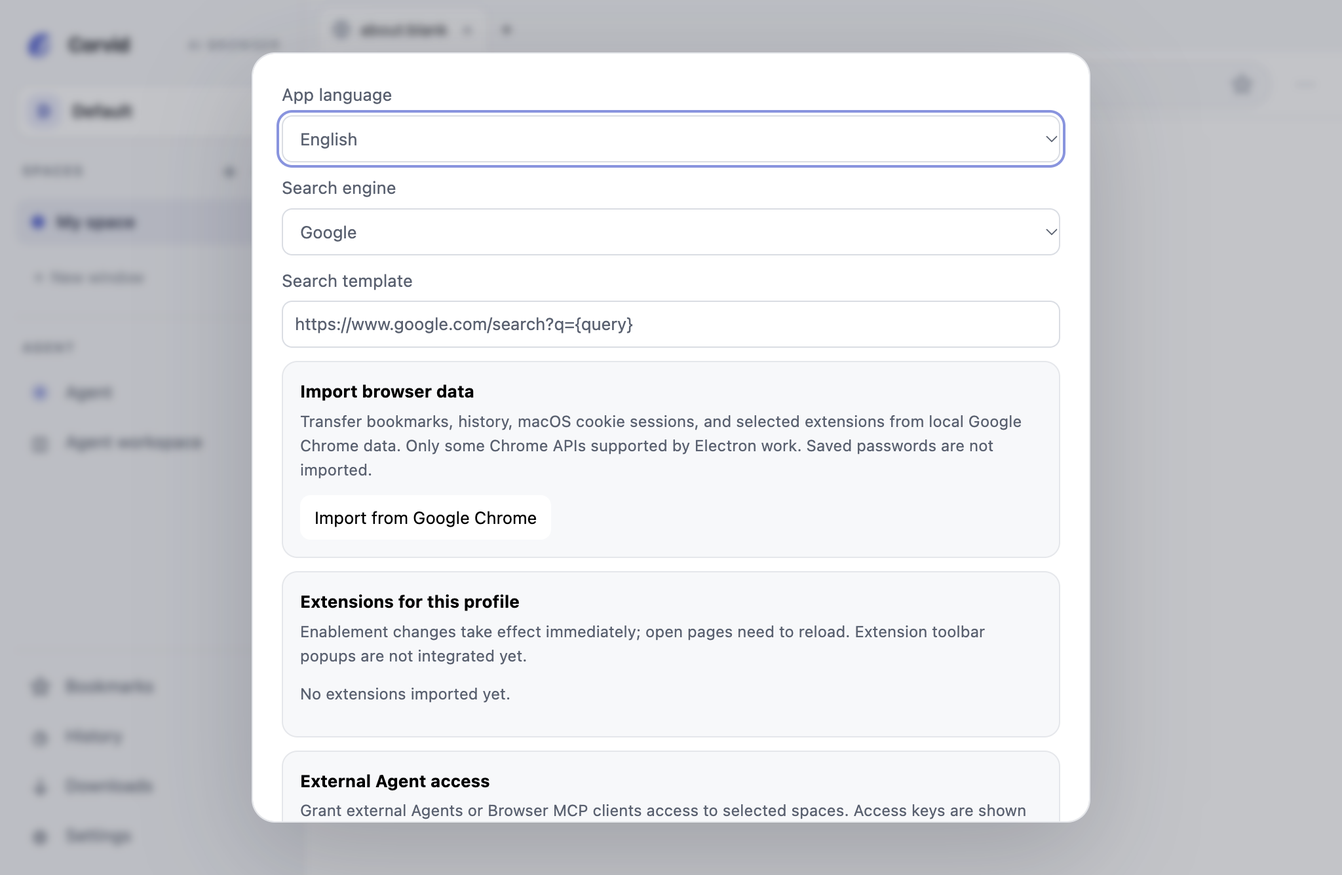
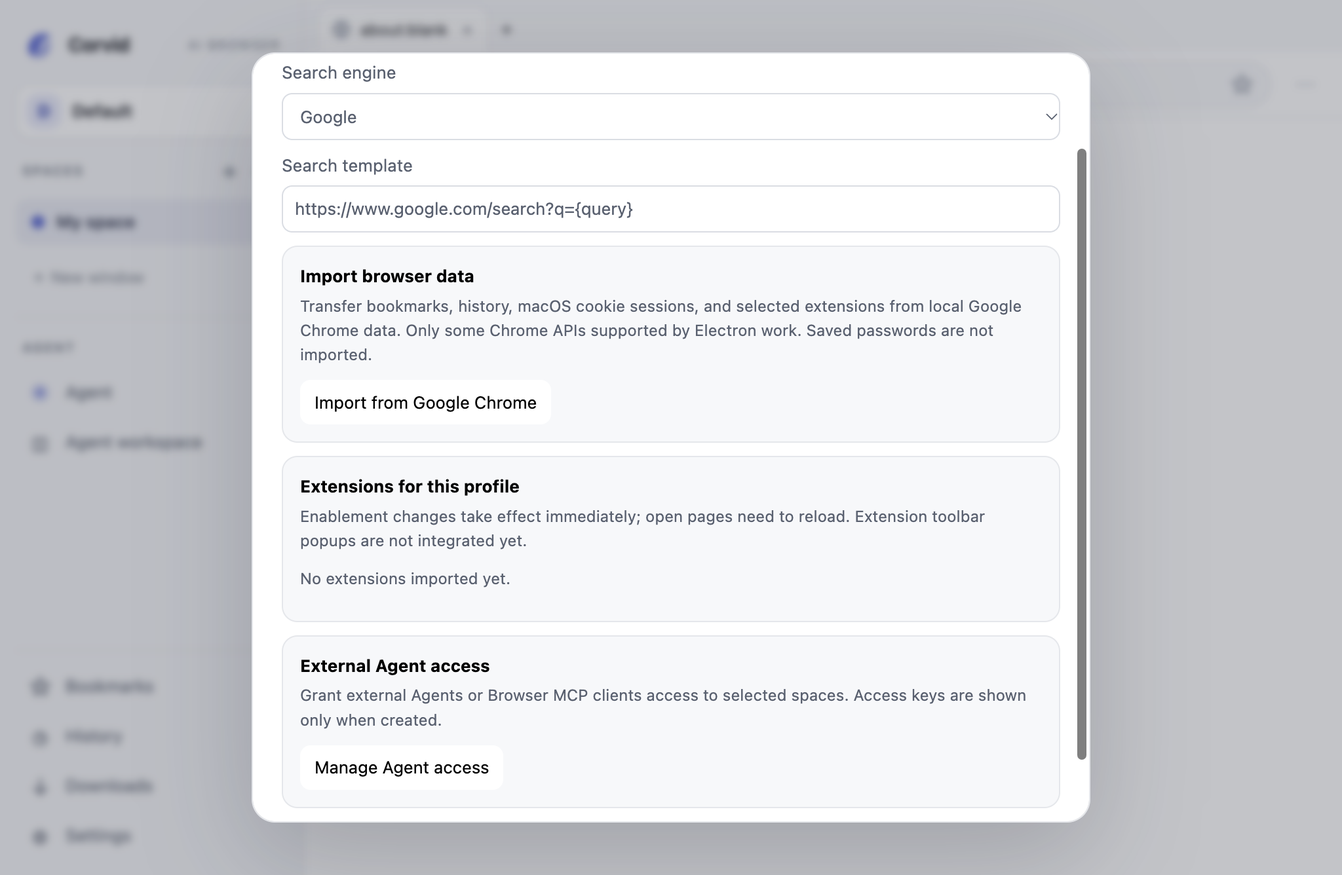
完善中英文窄窗设置验收

Changed region(s): [[0.1875, 0.0614, 0.8125, 0.8593], [0.2188, 0.8593, 0.75, 0.9513], [0.6562, 0.7672, 0.75, 0.7979]]

diff --git a/desktop/index.html b/desktop/index.html
@@ -13,7 +13,7 @@
         <svg viewBox="0 0 32 32" fill="none"><path d="M6 20.5C6 12.5 12.2 6 20 6c2.1 0 4 .5 5.8 1.5-5.6 1-9.2 5.4-10.5 10.2-1 3.7-3.8 6.3-7.2 7.8A10 10 0 0 1 6 20.5Z" fill="currentColor"/><path d="M9 25.5c6.8-1.7 12.2-6.8 15.4-14.1.9 1.8 1.4 3.8 1.4 5.9 0 6.1-4.9 11-11 11-2.1 0-4.1-.6-5.8-1.7Z" fill="currentColor" opacity=".55"/></svg>
       </span>
       <span class="brand-name">Corvid</span>
-      <span class="brand-caption">AI browser</span>
+      <span class="brand-caption" data-i18n="aiBrowser">AI 浏览器</span>
     </div>
 
     <section class="profile-switcher" aria-label="浏览身份切换" data-i18n-aria-label="profileSwitcher">
@@ -83,7 +83,7 @@
 
   <section id="library" hidden aria-label="工作区面板" data-i18n-aria-label="libraryPanel">
     <header class="panel-header">
-      <div><span class="panel-eyebrow">CORVID WORKSPACE</span><h2 id="library-title"></h2></div>
+      <div><span class="panel-eyebrow" data-i18n="corvidWorkspaceEyebrow">CORVID 工作区</span><h2 id="library-title"></h2></div>
       <input id="library-search" type="search" aria-label="搜索列表" placeholder="搜索标题、网址或文件名" data-i18n-aria-label="listSearch" data-i18n-placeholder="listSearchPlaceholder">
       <button id="close-library" class="close-button" aria-label="关闭面板" title="关闭面板" data-i18n-aria-label="closePanel" data-i18n-title="closePanel">×</button>
     </header>
@@ -94,12 +94,12 @@
   <dialog id="new-profile"><form id="new-profile-form"><label><span data-i18n="profileName">浏览身份名称</span> <input id="profile-name" required></label><button type="submit" data-i18n="newProfile">创建浏览身份</button><button type="button" id="cancel-profile" data-i18n="cancel">取消</button></form></dialog>
   <dialog id="rename-profile"><form id="rename-profile-form"><label><span data-i18n="newProfileName">新浏览身份名称</span> <input id="renamed-profile-name" required></label><span id="rename-profile-error" role="alert"></span><button type="submit" data-i18n="saveName">保存名称</button><button type="button" id="cancel-rename-profile" data-i18n="cancel">取消</button></form></dialog>
   <dialog id="settings" aria-label="设置" data-i18n-aria-label="settings"><form id="settings-form"><label><span data-i18n="appLanguageLabel">应用语言</span> <select id="ui-locale" aria-label="应用语言" data-i18n-aria-label="appLanguageLabel"><option value="zh-CN">简体中文</option><option value="en">English</option></select></label><label><span data-i18n="searchEngine">搜索引擎</span> <select id="search-preset"><option value="https://www.google.com/search?q={query}">Google</option><option value="https://www.bing.com/search?q={query}">Bing</option><option value="https://duckduckgo.com/?q={query}">DuckDuckGo</option><option value="custom" data-i18n="customSearch">自定义</option></select></label><label><span data-i18n="searchTemplate">搜索模板</span> <input id="search-template" required></label><section class="settings-import"><h2 data-i18n="chromeImportSettingsTitle">导入浏览器资料</h2><p data-i18n="chromeImportSettingsDescription">从本机 Google Chrome 迁移书签、历史记录、macOS Cookie 登录状态和你选择的扩展。扩展只支持 Electron 可运行的部分 Chrome API；已保存密码不会导入。</p><button type="button" id="start-chrome-import" data-i18n="importFromChrome">从 Google Chrome 导入</button></section><section class="settings-import"><h2 data-i18n="profileExtensionsTitle">当前浏览身份的扩展</h2><p data-i18n="profileExtensionsDescription">启停状态会即时更新；已打开的页面需要重新加载。扩展工具栏弹窗暂未集成。</p><div id="profile-extension-list" class="profile-extension-list" role="group" aria-label="当前浏览身份的扩展" data-i18n-aria-label="extensionPermissions"></div></section><section class="settings-import"><h2 data-i18n="externalAgentAccess">外部 Agent 访问</h2><p data-i18n="externalAgentAccessDescription">为外部 Agent 或 Browser MCP 客户端单独授权空间。访问密钥仅在创建时显示。</p><button type="button" id="open-agent-access" data-i18n="manageAgentAccess">管理 Agent 访问</button></section><span id="settings-error" role="alert"></span><button type="submit" data-i18n="save">保存设置</button><button type="button" id="cancel-settings" data-i18n="cancel">取消</button></form></dialog>
-  <dialog id="agent-access-dialog" aria-labelledby="agent-access-title"><div class="agent-access-dialog"><header class="import-heading"><div><span class="panel-eyebrow">CORVID AGENT ACCESS</span><h2 id="agent-access-title" data-i18n="agentAccessTitle">外部 Agent 访问</h2></div><button type="button" id="close-agent-access" aria-label="关闭授权管理" data-i18n-aria-label="closeAccessManagement">×</button></header><p class="agent-access-intro" data-i18n="agentAccessIntro">为每个外部客户端单独授权一个或多个空间。密钥只能读取已授权空间；撤销后立即失效。</p><p class="agent-access-boundary" data-i18n="agentAccessBoundary">不要把密钥提交到代码仓库或共享给不受信任的主机。本机同一用户进程仍处于 Corvid 管理员信任范围内。</p><form id="agent-client-form"><label><span data-i18n="clientName">客户端名称</span> <input id="agent-client-name" required maxlength="80" placeholder="例如：Browser MCP" data-i18n-placeholder="clientNamePlaceholder"></label><fieldset id="agent-room-scope"><legend data-i18n="allowedSpaces">允许访问的空间</legend><div id="agent-room-options" class="agent-room-options"></div></fieldset><span id="agent-access-error" role="alert"></span><button type="submit" id="create-agent-client" data-i18n="createAccessToken">创建访问密钥</button></form><section id="agent-client-token-panel" class="agent-client-token-panel" hidden aria-labelledby="agent-client-token-title"><h3 id="agent-client-token-title" data-i18n="accessTokenCreated">访问密钥已创建</h3><p data-i18n="accessTokenOneTime">只显示这一次。请立即复制到该客户端的安全配置中；MCP 主机使用环境变量 CORVID_AGENT_TOKEN。</p><textarea id="agent-client-token" readonly rows="3" aria-label="一次性 Agent 访问密钥" data-i18n-aria-label="oneTimeAgentToken"></textarea><div class="agent-client-token-actions"><button type="button" id="copy-agent-client-token" data-i18n="copyAccessToken">复制访问密钥</button><span id="agent-client-copy-status" role="status"></span></div></section><section class="agent-client-list-section" aria-labelledby="agent-client-list-title"><h3 id="agent-client-list-title" data-i18n="authorizedClients">已授权客户端</h3><div id="agent-client-list" role="group" aria-label="已授权客户端" data-i18n-aria-label="authorizedClients" aria-live="polite"></div></section></div></dialog>
-  <dialog id="pi-model-settings" aria-labelledby="pi-model-settings-title"><form id="pi-model-endpoint-form"><header class="import-heading"><div><span class="panel-eyebrow">CORVID MODEL CATALOG</span><h2 id="pi-model-settings-title" data-i18n="modelCatalog">管理 Corvid Agent 模型</h2></div><button type="button" id="close-pi-model-settings" aria-label="关闭模型设置" data-i18n-aria-label="close">×</button></header><p data-i18n="addCompatibleEndpoint">添加 OpenAI Chat Completions 兼容端点。配置只保存在 Corvid 数据目录，API Key 不会显示在模型列表中。留空时会发送无敏感占位 Bearer，端点需忽略此认证头。</p><div id="pi-custom-endpoints" class="pi-custom-endpoints" role="group" aria-label="自定义模型端点" data-i18n-aria-label="customModelEndpoints"></div><h3 id="pi-endpoint-form-title" data-i18n="addCustomEndpoint">添加自定义端点</h3><input id="pi-endpoint-id" type="hidden"><label><span data-i18n="name">名称</span> <input id="pi-endpoint-name" required maxlength="80" placeholder="例如：本地模型" data-i18n-placeholder="localModelPlaceholder"></label><label>Base URL <input id="pi-endpoint-url" type="url" required placeholder="http://127.0.0.1:11434/v1"></label><label><span data-i18n="optionalApiKey">API Key（可选）</span> <input id="pi-endpoint-key" type="password" autocomplete="new-password" spellcheck="false" placeholder="留空可保留现有 Key" data-i18n-placeholder="keepExistingKey"></label><label><span data-i18n="modelIds">模型 ID</span> <textarea id="pi-endpoint-model-ids" required rows="3" placeholder="每行或逗号分隔一个模型 ID" data-i18n-placeholder="modelIdsPlaceholder"></textarea></label><label class="pi-endpoint-clear-key"><input id="pi-endpoint-clear-key" type="checkbox"> <span data-i18n="clearSavedApiKey">清除已保存的 API Key（端点无需认证时使用）</span></label><div id="pi-endpoint-discovered" class="pi-endpoint-discovered" role="status"></div><span id="pi-endpoint-error" role="alert"></span><div class="pi-endpoint-actions"><button type="button" id="discover-pi-endpoint-models" data-i18n="discoverModels">从端点读取模型列表</button><button type="submit" id="save-pi-endpoint" data-i18n="saveEndpoint">保存端点</button><button type="button" id="reset-pi-endpoint-form" data-i18n="clearForm">清空表单</button></div></form></dialog>
+  <dialog id="agent-access-dialog" aria-labelledby="agent-access-title"><div class="agent-access-dialog"><header class="import-heading"><div><span class="panel-eyebrow" data-i18n="corvidAgentAccessEyebrow">CORVID AGENT 授权</span><h2 id="agent-access-title" data-i18n="agentAccessTitle">外部 Agent 访问</h2></div><button type="button" id="close-agent-access" aria-label="关闭授权管理" data-i18n-aria-label="closeAccessManagement">×</button></header><p class="agent-access-intro" data-i18n="agentAccessIntro">为每个外部客户端单独授权一个或多个空间。密钥只能读取已授权空间；撤销后立即失效。</p><p class="agent-access-boundary" data-i18n="agentAccessBoundary">不要把密钥提交到代码仓库或共享给不受信任的主机。本机同一用户进程仍处于 Corvid 管理员信任范围内。</p><form id="agent-client-form"><label><span data-i18n="clientName">客户端名称</span> <input id="agent-client-name" required maxlength="80" placeholder="例如：Browser MCP" data-i18n-placeholder="clientNamePlaceholder"></label><fieldset id="agent-room-scope"><legend data-i18n="allowedSpaces">允许访问的空间</legend><div id="agent-room-options" class="agent-room-options"></div></fieldset><span id="agent-access-error" role="alert"></span><button type="submit" id="create-agent-client" data-i18n="createAccessToken">创建访问密钥</button></form><section id="agent-client-token-panel" class="agent-client-token-panel" hidden aria-labelledby="agent-client-token-title"><h3 id="agent-client-token-title" data-i18n="accessTokenCreated">访问密钥已创建</h3><p data-i18n="accessTokenOneTime">只显示这一次。请立即复制到该客户端的安全配置中；MCP 主机使用环境变量 CORVID_AGENT_TOKEN。</p><textarea id="agent-client-token" readonly rows="3" aria-label="一次性 Agent 访问密钥" data-i18n-aria-label="oneTimeAgentToken"></textarea><div class="agent-client-token-actions"><button type="button" id="copy-agent-client-token" data-i18n="copyAccessToken">复制访问密钥</button><span id="agent-client-copy-status" role="status"></span></div></section><section class="agent-client-list-section" aria-labelledby="agent-client-list-title"><h3 id="agent-client-list-title" data-i18n="authorizedClients">已授权客户端</h3><div id="agent-client-list" role="group" aria-label="已授权客户端" data-i18n-aria-label="authorizedClients" aria-live="polite"></div></section></div></dialog>
+  <dialog id="pi-model-settings" aria-labelledby="pi-model-settings-title"><form id="pi-model-endpoint-form"><header class="import-heading"><div><span class="panel-eyebrow" data-i18n="corvidModelCatalogEyebrow">CORVID 模型目录</span><h2 id="pi-model-settings-title" data-i18n="modelCatalog">管理 Corvid Agent 模型</h2></div><button type="button" id="close-pi-model-settings" aria-label="关闭模型设置" data-i18n-aria-label="close">×</button></header><p data-i18n="addCompatibleEndpoint">添加 OpenAI Chat Completions 兼容端点。配置只保存在 Corvid 数据目录，API Key 不会显示在模型列表中。留空时会发送无敏感占位 Bearer，端点需忽略此认证头。</p><div id="pi-custom-endpoints" class="pi-custom-endpoints" role="group" aria-label="自定义模型端点" data-i18n-aria-label="customModelEndpoints"></div><h3 id="pi-endpoint-form-title" data-i18n="addCustomEndpoint">添加自定义端点</h3><input id="pi-endpoint-id" type="hidden"><label><span data-i18n="name">名称</span> <input id="pi-endpoint-name" required maxlength="80" placeholder="例如：本地模型" data-i18n-placeholder="localModelPlaceholder"></label><label><span data-i18n="baseUrl">API 基础地址</span> <input id="pi-endpoint-url" type="url" required placeholder="http://127.0.0.1:11434/v1"></label><label><span data-i18n="optionalApiKey">API Key（可选）</span> <input id="pi-endpoint-key" type="password" autocomplete="new-password" spellcheck="false" placeholder="留空可保留现有 Key" data-i18n-placeholder="keepExistingKey"></label><label><span data-i18n="modelIds">模型 ID</span> <textarea id="pi-endpoint-model-ids" required rows="3" placeholder="每行或逗号分隔一个模型 ID" data-i18n-placeholder="modelIdsPlaceholder"></textarea></label><label class="pi-endpoint-clear-key"><input id="pi-endpoint-clear-key" type="checkbox"> <span data-i18n="clearSavedApiKey">清除已保存的 API Key（端点无需认证时使用）</span></label><div id="pi-endpoint-discovered" class="pi-endpoint-discovered" role="status"></div><span id="pi-endpoint-error" role="alert"></span><div class="pi-endpoint-actions"><button type="button" id="discover-pi-endpoint-models" data-i18n="discoverModels">从端点读取模型列表</button><button type="submit" id="save-pi-endpoint" data-i18n="saveEndpoint">保存端点</button><button type="button" id="reset-pi-endpoint-form" data-i18n="clearForm">清空表单</button></div></form></dialog>
   <dialog id="chrome-import"><form id="chrome-import-form"><header class="import-heading"><div><span class="panel-eyebrow" data-i18n="browserData">BROWSER DATA</span><h2 data-i18n="chromeImportTitle">从 Google Chrome 导入</h2></div><button type="button" id="cancel-chrome-import" aria-label="关闭导入" data-i18n-aria-label="closeImport">×</button></header><p class="import-intro" data-i18n="chromeImportIntro">建议先退出 Chrome，确保资料完整。这里只读取你选择的本机资料，不改动源文件，也不会上传。</p><label class="import-target"><span data-i18n="importTargetProfile">导入到 Corvid 浏览身份</span> <select id="chrome-import-target-profile" aria-label="导入目标浏览身份" data-i18n-aria-label="importTargetProfile"></select></label><button type="button" id="choose-chrome-source" data-i18n="chooseChromeDirectory">选择 Chrome 资料目录…</button><label><span data-i18n="chromeProfile">Chrome Profile</span> <select id="chrome-source-profile" disabled><option value="" data-i18n="chooseDirectoryFirst">先选择资料目录</option></select></label><div id="chrome-import-preview" class="import-preview" role="status" data-i18n="chooseDirectoryForCounts">选择目录后会显示可导入项目数量。</div><fieldset id="chrome-import-categories" disabled><legend data-i18n="chooseDataToImport">选择要导入的资料</legend><label><input type="checkbox" name="chrome-category" value="bookmarks" checked> <span data-i18n="bookmarks">书签</span> <span id="chrome-bookmark-count">0 项</span></label><label><input type="checkbox" name="chrome-category" value="history" checked> <span data-i18n="history">浏览历史</span> <span id="chrome-history-count">0 项</span></label><label><input type="checkbox" name="chrome-category" value="cookies"> <span data-i18n="cookiesLogin">Cookie（登录状态）</span> <span id="chrome-cookie-count">0 项</span></label><label><input type="checkbox" name="chrome-category" value="extensions"> <span data-i18n="chromeExtensions">Chrome 扩展</span> <span id="chrome-extension-count">0 项</span></label></fieldset><section id="chrome-cookie-consent" class="chrome-cookie-consent" hidden aria-labelledby="chrome-cookie-consent-title"><h3 id="chrome-cookie-consent-title" data-i18n="importCookieKeychainTitle">导入 Cookie 会读取 macOS 钥匙串</h3><p data-i18n="importCookieKeychainDescription">确认导入后，Corvid 会请求访问“Chrome Safe Storage”以解密所选 Chrome Profile 的 Cookie。macOS 可能显示钥匙串授权提示；拒绝授权或取消导入都不会写入 Cookie。Cookie 只保存到上方指定的浏览身份，不会上传。</p><label><input type="checkbox" id="chrome-cookie-consent-check"> <span data-i18n="cookieImportConsent">我了解此操作会读取 Chrome 登录 Cookie，并同意导入到此 Corvid 浏览身份。</span></label></section><div id="chrome-extension-choices" class="chrome-extension-choices" aria-label="选择 Chrome 扩展" data-i18n-aria-label="chooseChromeExtensions"></div><p class="import-limitation" data-i18n="chromeImportLimitations">扩展代码会在目标 Corvid 浏览身份中运行。请核对每个扩展的权限；Electron 只支持部分 Chrome 扩展 API，扩展工具栏弹窗暂未集成；导入后可能无法使用，已打开的页面需要重新加载。扩展设置与已保存密码不会迁移。Cookie 导入仅支持 macOS；会话 Cookie 会在 Corvid 退出时按源语义失效，带有效期的 Cookie 可跨重启保留。</p><span id="chrome-import-error" role="status"></span><button type="submit" id="confirm-chrome-import" disabled data-i18n="importSelectedData">导入所选资料</button></form></dialog>
   <dialog id="chrome-import-onboarding" aria-labelledby="chrome-import-onboarding-title" aria-describedby="chrome-import-onboarding-description"><form id="chrome-import-onboarding-form"><span class="panel-eyebrow" data-i18n="welcomeToCorvid">WELCOME TO CORVID</span><h2 id="chrome-import-onboarding-title" data-i18n="onboardingTitle">从 Chrome 开始使用 Corvid？</h2><p id="chrome-import-onboarding-description" data-i18n="onboardingDescription">你可以选择迁移书签、历史记录、Cookie 登录状态和兼容的扩展。开始前会让你选择 Chrome 资料与导入内容。</p><p class="import-limitation" data-i18n="onboardingLimitations">扩展只支持 Electron 可运行的部分 Chrome API；已保存密码不会导入。你也可以稍后在设置中再导入。</p><span id="chrome-import-onboarding-error" role="alert"></span><div class="onboarding-actions"><button type="button" id="skip-chrome-import" data-i18n="later">稍后</button><button type="button" id="begin-chrome-import" data-i18n="chooseImportData">选择要导入的资料</button></div></form></dialog>
   <dialog id="page-dialog"><form id="page-dialog-form"><span id="page-dialog-message"></span><label id="page-dialog-prompt-label"><span data-i18n="reply">回复</span> <input id="page-dialog-prompt"></label><button type="submit" data-i18n="confirm">确定</button><button type="button" id="page-dialog-dismiss" data-i18n="cancel">取消</button></form></dialog>
-  <dialog id="pi-auth-dialog" aria-labelledby="pi-auth-title"><form id="pi-auth-form"><span class="panel-eyebrow">MODEL SIGN IN</span><h2 id="pi-auth-title" data-i18n="modelSignIn">完成模型账号授权</h2><p id="pi-auth-message"></p><a id="pi-auth-open-url" hidden data-i18n="openChatgptAuth">打开 ChatGPT 授权页</a><label id="pi-auth-input-label"><span data-i18n="authorizationInfo">授权信息</span> <input id="pi-auth-input" autocomplete="off"></label><button type="submit" data-i18n="continueAuthorization">继续授权</button><button type="button" id="pi-auth-cancel" data-i18n="cancel">取消</button></form></dialog>
+  <dialog id="pi-auth-dialog" aria-labelledby="pi-auth-title"><form id="pi-auth-form"><span class="panel-eyebrow" data-i18n="modelSignInEyebrow">模型账号授权</span><h2 id="pi-auth-title" data-i18n="modelSignIn">完成模型账号授权</h2><p id="pi-auth-message"></p><a id="pi-auth-open-url" hidden data-i18n="openChatgptAuth">打开 ChatGPT 授权页</a><label id="pi-auth-input-label"><span data-i18n="authorizationInfo">授权信息</span> <input id="pi-auth-input" autocomplete="off"></label><button type="submit" data-i18n="continueAuthorization">继续授权</button><button type="button" id="pi-auth-cancel" data-i18n="cancel">取消</button></form></dialog>
   <script src="locales.js"></script>
   <script src="renderer.js"></script>
 </body>

diff --git a/desktop/locales.js b/desktop/locales.js
@@ -4,6 +4,7 @@
       appLanguageLabel: '应用语言',
       localeSaveFailed: '无法保存语言设置，请重试。',
       browserNavigation: 'Corvid 导航',
+      aiBrowser: 'AI 浏览器',
       profileSwitcher: '浏览身份切换',
       profile: '浏览身份',
       profileOptions: '浏览身份选项',
@@ -92,12 +93,16 @@
       saveEndpoint: '保存端点',
       clearForm: '清空表单',
       browserData: '导入浏览器资料',
+      corvidWorkspaceEyebrow: 'CORVID 工作区',
+      corvidAgentAccessEyebrow: 'CORVID AGENT 授权',
+      corvidModelCatalogEyebrow: 'CORVID 模型目录',
       chromeImportTitle: '从 Google Chrome 导入',
       closeImport: '关闭导入',
       chromeImportIntro: '建议先退出 Chrome，确保资料完整。这里只读取你选择的本机资料，不改动源文件，也不会上传。',
       importTargetProfile: '导入到 Corvid 浏览身份',
       chooseChromeDirectory: '选择 Chrome 资料目录…',
-      chromeProfile: 'Chrome Profile',
+      chromeProfile: 'Chrome 浏览身份',
+      baseUrl: 'API 基础地址',
       chooseDirectoryFirst: '先选择资料目录',
       chooseDirectoryForCounts: '选择目录后会显示可导入项目数量。',
       chooseDataToImport: '选择要导入的资料',
@@ -111,7 +116,7 @@
       chooseChromeExtensions: '选择 Chrome 扩展',
       chromeImportLimitations: '扩展代码会在目标 Corvid 浏览身份中运行。请核对每个扩展的权限；Electron 只支持部分 Chrome 扩展 API，扩展工具栏弹窗暂未集成；导入后可能无法使用，已打开的页面需要重新加载。扩展设置与已保存密码不会迁移。Cookie 导入仅支持 macOS；会话 Cookie 会在 Corvid 退出时按源语义失效，带有效期的 Cookie 可跨重启保留。',
       importSelectedData: '导入所选资料',
-      welcomeToCorvid: 'WELCOME TO CORVID',
+      welcomeToCorvid: '欢迎使用 Corvid',
       onboardingTitle: '从 Chrome 开始使用 Corvid？',
       onboardingDescription: '你可以选择迁移书签、历史记录、Cookie 登录状态和兼容的扩展。开始前会让你选择 Chrome 资料与导入内容。',
       onboardingLimitations: '扩展只支持 Electron 可运行的部分 Chrome API；已保存密码不会导入。你也可以稍后在设置中再导入。',
@@ -120,6 +125,7 @@
       reply: '回复',
       confirm: '确定',
       modelSignIn: '完成模型账号授权',
+      modelSignInEyebrow: '模型账号授权',
       openChatgptAuth: '打开 ChatGPT 授权页',
       authorizationInfo: '授权信息',
       continueAuthorization: '继续授权',
@@ -340,6 +346,7 @@
       appLanguageLabel: 'App language',
       localeSaveFailed: 'Could not save the language setting. Try again.',
       browserNavigation: 'Corvid navigation',
+      aiBrowser: 'AI browser',
       profileSwitcher: 'Switch browsing profile',
       profile: 'Browsing profile',
       profileOptions: 'Browsing profile options',
@@ -428,12 +435,16 @@
       saveEndpoint: 'Save endpoint',
       clearForm: 'Clear form',
       browserData: 'BROWSER DATA',
+      corvidWorkspaceEyebrow: 'CORVID WORKSPACE',
+      corvidAgentAccessEyebrow: 'CORVID AGENT ACCESS',
+      corvidModelCatalogEyebrow: 'CORVID MODEL CATALOG',
       chromeImportTitle: 'Import from Google Chrome',
       closeImport: 'Close import',
       chromeImportIntro: 'Quit Chrome first to help ensure the data is complete. Corvid reads only the local data you choose, does not modify the source, and does not upload it.',
       importTargetProfile: 'Import into Corvid profile',
       chooseChromeDirectory: 'Choose Chrome data folder…',
       chromeProfile: 'Chrome profile',
+      baseUrl: 'Base URL',
       chooseDirectoryFirst: 'Choose a data folder first',
       chooseDirectoryForCounts: 'Choose a folder to see how many items can be imported.',
       chooseDataToImport: 'Choose data to import',
@@ -456,6 +467,7 @@
       reply: 'Reply',
       confirm: 'OK',
       modelSignIn: 'Complete model account sign-in',
+      modelSignInEyebrow: 'MODEL SIGN IN',
       openChatgptAuth: 'Open ChatGPT sign-in',
       authorizationInfo: 'Authorization details',
       continueAuthorization: 'Continue authorization',

diff --git a/docs/execution/feature-board.md b/docs/execution/feature-board.md
@@ -80,7 +80,7 @@
 | D20 | 部分 | **外部 Agent / Browser MCP 浏览器接入**。stdio MCP 使用 `CORVID_AGENT_TOKEN` scoped credential（未配置时拒绝运行且不回退管理员 token），Profile/Room 列表按授权过滤；授权凭据可在设置内签发和撤销，见 D23。工具操作显式选择 Room/Tab。现有能力包括只读发现、页信息与快照、`page_navigate`（限无凭据 HTTP(S)）、`page_click`、`page_fill`、`page_press`，均要求显式 Room/Tab、Agent 控制、无待接管、无 execution risk 和 managed tab。REA 对 EGO/Kaze 界面及 Kaze 包做了精确取样，证据见[双浏览器参照分析](../research/browser-reference-analysis.md)；工具清单借鉴 BrowserMCP 的 observe/act 思路，但直接复用 Corvid SDK。后台 Room 的操作与截图现已在前台保持起始页时通过真实 Electron 回归；视图仍由活动用户标签置顶。只读基线见 [Issue #4](https://github.com/heyallencao/corvid/issues/4)，起始页合成层及操作合同见 [Issue #98](https://github.com/heyallencao/corvid/issues/98)。 | ① `node tests/mcp-e2e.cjs` 覆盖协议初始化与工具 annotations、scoped token 缺失时拒绝且不回退管理员凭据、授权 Profile/Room 列表、显式 Room/Tab、HTTP(S) 本地导航、角色定位器输入/按键/点击后重新 Snapshot 验证、副作用受限、拒绝 `javascript:`、用户接管时拒绝写操作及只读操作、Corvid 离线错误；后台 Room 在前台空白起始页下执行页信息、Snapshot、fill/click 与 SDK 截图，且前台视图不变。② `npm test` 全量回归。③ 后续再定义主机配置/断开、页面上下文同意、暂停恢复、真实 MCP host、站点 adapter 边界；当前不提供 arbitrary `evaluate`/CDP、文件上传、Tab/Room 生命周期或控制权转移工具。④ 真实网站、macOS 打包入口、Windows 与真实 MCP host UI 尚未验证。 |
 
 | D23 | 部分 | **Agent 身份与 Room 授权**。已实现管理员签发独立 Agent 客户端凭据、SHA-256 摘要持久化（0600）、撤销、设置内查看/复制/撤销界面、服务端逐请求 Room 范围校验、未授权 Profile 不可枚举、历史/书签/下载/窗口端点拒绝、SDK 显式 scoped credential 连接；Browser MCP 需在宿主环境配置 `CORVID_AGENT_TOKEN`，无凭据时拒绝运行且不回退管理员 token。`agent-access-e2e` 覆盖两个客户端并发操作不同获准 Room 且并发跨 Room 读写仍拒绝；当 Agent A 的本地慢响应导航挂起时，Agent B 的获准 Room 导航仍先完成，释放响应后 A 再完成（主进程按 Room 排队，同一 Room 操作仍串行）；`agent-access-ui-e2e` 和 `mcp-e2e` 覆盖外部授权 UI 与 MCP 接入；内置 Agent 现由 Corvid 主进程为每个任务轮次签发只绑定单一 Room 的内存 scoped credential，续聊重新签发，完成、失败、停止和用户接管时撤销，同一任务的续聊请求互斥，页面上下文读取中交接不会迟到启动会话或签发凭据；凭据不写入外部客户端授权文件、任务记录或 transcript。`agent-runtime-contract-e2e.cjs`、`pi-runtime-e2e.cjs` 与 `pi-workbench-e2e.cjs` 覆盖生命周期与会话接入。同一 OS 用户进程间的安全隔离仍不成立：能读取管理员 `control.json` 或控制主进程的进程不受此边界约束。跟踪 [Issue #96](https://github.com/heyallencao/corvid/issues/96)。 | ① `node tests/agent-access-e2e.cjs`：两个 Room/客户端并发读取与创建标签；并发跨 Room 读写及 Tab ID 访问返回 `CORVID_FORBIDDEN`；并发完成后仍只枚举各自授权 Room；全局数据路由返回 `CORVID_FORBIDDEN`，Profile 列表仅含授权空间所属身份；凭据明文不落盘且授权文件权限为 0600；撤销立即生效并跨重启保留；未撤销 scoped token 跨重启可用。② 服务端每个路由先鉴权；新增路由默认拒绝 scoped client，按显式白名单开放。③ `tests/agent-access-ui-e2e.cjs` 覆盖设置内签发/查看/复制/撤销；`tests/mcp-e2e.cjs` 以 scoped token 运行并仅列出获准 Room/Profile。④ 已接入内置 Agent 的任务级 Room scoped credential；验证每轮签发、续聊轮换、完成/失败/停止/接管撤销、初始化期间交接不会晚发 prompt、重启不复用凭据，后台 Room 与新标签层级合同由 Issue #98 跟踪。⑤ 明确管理员 `control.json` 仍属于同一 OS 用户信任域；尚未提供恶意同用户进程的 OS 级隔离，不得宣称已解决。 |
-| D24 | 部分 | **首发简体中文与英文界面及可扩展本地化**。应用级语言偏好按系统语言初始化，并持久化于 `ui-preferences.json`；`shell-state` 将 locale 提供给桌面 renderer，控制 API 不开放 locale 写入口。`desktop/locales.js` 现有 332 个中英文资源键及参数插值、复数、`Intl` 日期/数字/列表格式化。静态 DOM 与动态渲染已迁移浏览器 chrome、标签/菜单、设置、Chrome 导入、Agent 访问授权、扩展状态、内置 Agent 对话/模型管理和 Agent 工作区主要文案；系统生成默认名称仅在显示层翻译，用户数据不改写。真实 Electron 中英文定向 E2E 已覆盖语言切换/重启、资源键及占位符一致、设置/授权/导入/模型/工作区代表性状态与 700×420 导航可达，截图索引见[验证记录](../reviews/verification-log.md#2026-11-03-corvid-界面语言偏好与浏览器壳层首批双语-issue-130)。仍未完成的部分包括主进程/依赖生成的错误、帮助与罕见状态、所有菜单/流程盘点、完整键盘焦点及 VoiceOver；定向 E2E 和截图不等于全产品文案或无障碍验收。设计和源码范围见[界面本地化设计](../architecture/localization.md)。扩展 `_locales` 仅属于扩展兼容。整体由 [Issue #130](https://github.com/heyallencao/corvid/issues/130) 跟踪。 | ① 完成 `zh-CN`/`en` 对浏览器 chrome、Agent 工作区、设置、菜单、帮助、错误/状态/空态及可访问名称的全界面盘点。② 保持 locale 资源与格式化边界，禁止业务逻辑新增硬编码用户文案。③ 验收译文语义、长文本窄窗、键盘焦点、减少动态效果与辅助技术名称。④ 扩展视图若包含 Corvid 提供的界面，也须纳入对应文案盘点；网页主体仍由网站负责。⑤ 只有全部流程和状态通过检查后，才能将 D24 标为已验证。 |
+| D24 | 部分 | **首发简体中文与英文界面及可扩展本地化**。应用级语言偏好按系统语言初始化，并持久化于 `ui-preferences.json`；`shell-state` 将 locale 提供给桌面 renderer，控制 API 不开放 locale 写入口。`desktop/locales.js` 提供双语资源、参数插值、复数、`Intl` 日期/数字/列表格式化。静态 DOM 与动态渲染已迁移浏览器 chrome、标签/菜单、设置、Chrome 导入及引导、Agent 访问授权、扩展状态、内置 Agent 对话/模型管理和 Agent 工作区主要文案，包括品牌眉题、Chrome Profile 与端点地址字段；默认名称只在显示层翻译，用户数据不改写。真实 Electron 中英文定向 E2E 覆盖语言切换/重启、资源键与占位符一致、源码重复键检查、设置/授权/导入/模型/工作区代表性状态、700×420 导航可达及中英文设置对话框滚动后保存动作完整可达，截图索引见[验证记录](../reviews/verification-log.md#2026-11-03-corvid-界面语言偏好与浏览器壳层首批双语-issue-130)。仍未完成的部分包括主进程/依赖生成的错误、帮助与罕见状态、所有菜单/流程盘点、完整键盘焦点及 VoiceOver；定向 E2E 和截图不等于全产品文案或无障碍验收。设计和源码范围见[界面本地化设计](../architecture/localization.md)。扩展 `_locales` 仅属于扩展兼容。整体由 [Issue #130](https://github.com/heyallencao/corvid/issues/130) 跟踪。 | ① 完成 `zh-CN`/`en` 对浏览器 chrome、Agent 工作区、设置、菜单、帮助、错误/状态/空态及可访问名称的全界面盘点。② 保持 locale 资源与格式化边界，禁止业务逻辑新增硬编码用户文案。③ 验收译文语义、长文本窄窗、键盘焦点、减少动态效果与辅助技术名称。④ 扩展视图若包含 Corvid 提供的界面，也须纳入对应文案盘点；网页主体仍由网站负责。⑤ 只有全部流程和状态通过检查后，才能将 D24 标为已验证。 |
 
 ## P2：平台、迁移与能力补齐
 

diff --git a/docs/qa/e2e-suites.md b/docs/qa/e2e-suites.md
@@ -66,8 +66,8 @@
 | 47 | `tests/agent-access-e2e.cjs` | 真实 Electron：两个 Agent 客户端并发列出/读取并在各自获准 Room 创建标签；同时发起跨 Room 读取、Tab 操作和写入，均返回 `CORVID_FORBIDDEN`；并发操作后双方仍只枚举获准 Room；Agent A 的本地慢响应导航保持挂起时，Agent B 的获准 Room 导航先完成，释放响应后 A 再完成；跨 Room 与全局 Profile、历史、下载、窗口访问被拒；SDK 签发、列出、撤销授权并直接使用 scoped credential；凭据仅保存摘要且权限为 0600；撤销即时生效，未撤销授权跨重启有效、已撤销授权跨重启仍失效。 | 使用临时数据目录与本机真实 Electron；只验证控制接口和确定性 Room，不调用真实模型/OAuth；本地 HTTP gate 验证不同 Room 的慢/快导航互不阻塞，同一 Room 内仍由队列串行执行；不代表真实模型调用并发或多进程并行调度；不验证 UI/真实 MCP host 或同一 OS 用户恶意进程隔离。内置 Agent 生命周期由 39、40、42 覆盖。 |
 | 49 | `tests/navigation-error-e2e.cjs` | 真实 Electron 主框架导航失败时显示用户可读错误、保留失败 URL 并提供重试；恢复本地服务后重试成功且清除错误；加载状态可见；新建空白标签立即选中并接收地址栏导航；新导航替代挂起请求后不遗留旧失败状态。 | 临时 Corvid 数据目录与本地 HTTP fixture；只映射少数网络错误到中文说明，证书失败显示通用安全连接提示；不覆盖所有 Chromium 错误码、代理/DNS 环境及原生证书详情页面。 |
 | 52 | `tests/agent-task-continuation-contract.cjs` | 不启动 Electron 的真实 Agent Workbench 模块合同：同一已完成任务并发提交续聊时只接受一个请求，不重复写入 transcript/session/credential；过期页面预览失败后恢复原状态；Room 在页面读取、scoped credential 签发及运行时会话初始化三个等待窗口交还用户时，迟到续聊均被拒绝、任务保持 interrupted、凭据被撤销且未调用模型 prompt。 | 使用确定性 runtime 与临时数据目录，不调用真实 Provider；不覆盖实际 Electron renderer 双击时序，UI 状态和双客户端 Room 授权由其他用例覆盖。 |
-| 53 | `tests/localization-e2e.cjs` | 真实 Electron 双语回归：应用语言切换/无效 locale 拒绝、源码 locale 重复键检查、两份资源键/复数键/插值占位符一致、DOM 资源键存在；检查侧栏和菜单、地址栏/查找、设置内 Chrome 导入与外部 Agent 授权、Profile 扩展空态、Agent 提示/模型管理与 Agent 工作区空态的中英文文案和可访问名称。验证 locale 切换不改写 Room/Profile 名称、`Intl` 日期/数字/复数格式、0600 偏好文件和重启恢复，并在 700×420 窄窗检查导航控件。`CORVID_CAPTURE_QA_SCREENSHOTS=1` 可生成八张隔离空白状态截图，含中英文常规窗口与设置窄窗状态。 | 使用临时 `CORVID_DATA_DIR` 与本机真实 Electron，不访问外网、不使用 OAuth 或模型；检查的是明确覆盖的确定性路径，不等同全部文案盘点。主进程/依赖生成的错误、帮助与罕见状态、全菜单、完整键盘焦点路径和 VoiceOver 未完成审计；窄窗断言不代表完整界面可用性。 |
-| 50 | `tests/pi-real-model-smoke.cjs`（手动运行） | 在隔离 `CORVID_DATA_DIR` 中经 Corvid 发起 ChatGPT OAuth，断言 Corvid 加密凭据文件存在、Agent 任务固定使用 `openai-codex/gpt-6-luna`，并通过 Corvid UI 向本地 HTTP 页面上下文发起真实请求、收到标记响应。 | 会访问真实 OpenAI/Codex 服务并消耗账户用量；不得读取外部 CLI 凭据，不纳入 `npm test`；需在 Corvid OAuth 对话框及浏览器中完成账号授权；当前执行证据限本机 macOS。 |
+| 50 | `tests/localization-e2e.cjs` | 真实 Electron 双语回归：应用语言切换/无效 locale 拒绝、源码 locale 重复键检查、两份资源键/复数键/插值占位符一致、DOM 资源键存在；检查侧栏/菜单、地址栏/查找、品牌眉题、Chrome Profile 名称、设置内 Chrome 导入与外部 Agent 授权、Profile 扩展空态、Agent 提示/模型管理（含端点地址字段）与 Agent 工作区空态的中英文文案和可访问名称。验证 locale 切换不改写 Room/Profile 名称、`Intl` 日期/数字/复数格式、0600 偏好文件和重启恢复，并在 700×420 窄窗检查导航控件，以及中英文设置对话框滚动后保存动作完整可达。`CORVID_CAPTURE_QA_SCREENSHOTS=1` 可生成八张隔离空白状态截图。 | 使用临时 `CORVID_DATA_DIR` 与本机真实 Electron，不访问外网、不使用 OAuth 或模型；检查的是明确覆盖的确定性路径，不等同全部文案盘点。主进程/依赖生成的错误、帮助与罕见状态、全菜单、完整键盘焦点路径和 VoiceOver 未完成审计；窄窗断言不代表完整界面可用性。 |
+| 51 | `tests/pi-real-model-smoke.cjs`（手动运行） | 在隔离 `CORVID_DATA_DIR` 中经 Corvid 发起 ChatGPT OAuth，断言 Corvid 加密凭据文件存在、Agent 任务固定使用 `openai-codex/gpt-6-luna`，并通过 Corvid UI 向本地 HTTP 页面上下文发起真实请求、收到标记响应。 | 会访问真实 OpenAI/Codex 服务并消耗账户用量；不得读取外部 CLI 凭据，不纳入 `npm test`；需在 Corvid OAuth 对话框及浏览器中完成账号授权；当前执行证据限本机 macOS。 |
 
 ## 工作块与测试的映射
 
@@ -87,7 +87,7 @@
 | D19 内置 Agent / Pi runtime | `pi-runtime-e2e`（session 创建、transcript 路径边界与工具 allowlist；无真实模型）、`pi-models-e2e`（模型目录、选择持久化、无凭据拒绝、临时 API Key 持久化、任务创建与续聊模型保持；无真实请求）、`pi-workbench-e2e`（Corvid Agent 对话/历史/模型 UI、700×420 页面来源/模型/输入及页面同意、多轮续聊、重启恢复、用户接管与交还；本地 fixture）、`agent-task-continuation-contract`（同任务重复续聊互斥与 Room 交接期间拒绝迟到续聊；runtime 替身）、`agent-stop-e2e`（主动停止、迟到 runtime 事件隔离、abort 失败提示）、`pi-custom-endpoint-e2e`（Corvid 端点配置、发现与本地兼容 fixture 请求）、`pi-real-model-smoke`（Corvid ChatGPT OAuth + GPT-6 Luna 单次真实请求） |
 | D12 状态、接管与多 Agent 体验 | `user-control-e2e`、`evaluation-risk-e2e`、`dialogs-ui-e2e`、`permissions-e2e`、`agent-rooms-panel-e2e`、`agent-access-e2e`、`agent-access-ui-e2e` |
 | D21 桌面界面与键盘可达性 | `agent-rooms-panel-e2e`（Agent 空态、工作台和面板关闭的 Enter 键盘路径及焦点恢复）、`permissions-e2e`、`tab-pin-menu-e2e` |
-| D24 本地化 | `localization-e2e`（应用语言选择/拒绝无效 locale、资源键对齐、浏览器壳层与站点工具菜单名称/提示、Intl 格式、窄窗可达、偏好权限与重启恢复；仅首批静态覆盖） |
+| D24 本地化 | `localization-e2e`（应用语言选择/拒绝无效 locale、资源键对齐、浏览器壳层与站点工具菜单名称/提示、Intl 格式、窄窗导航与中英文设置对话框滚动/保存动作可达、偏好权限与重启恢复；仅首批静态覆盖） |
 | D07 用户界面与日常导航 | `navigation-error-e2e`（加载状态、主框架失败提示、URL 保留、重试与被替代导航） |
 | D13 首次启动与 Chrome 导入 | `chrome-import-e2e`（书签/历史、可选择非活动 Profile 作为目标并在失败重试时锁定目标、合成 v10 Cookie 解密、Cookie 类别单独确认、Profile 隔离、扩展执行与重启恢复、重复导入、Cookie flushStore 故障回滚/重试、只读 Profile 目录下持久 Cookie 落盘核验及重启重试、损坏 Cookie 索引完整性拒绝、预览后 SQLite 占用错误分类与源/目标不变、删除失败告警与同名旧路径 Cookie 保留、不同值 Cookie 冲突保留、library.json 替换失败回滚/重试、引导状态；真实系统钥匙串授权未覆盖） |
 

diff --git a/docs/reviews/verification-log.md b/docs/reviews/verification-log.md
@@ -14,10 +14,12 @@
 ## 2026-11-03 Corvid 界面语言偏好与浏览器壳层首批双语（Issue #130）
 
 - 基线与环境：`origin/main` `29f59a2` 的独立 worktree；macOS、Node.js v24.14.1、Electron 45.2.1。真实 Electron 使用临时 `CORVID_DATA_DIR`，预置合成的 `zh-CN` 偏好；未访问真实网页、未使用 OAuth 或模型。
-- 实现：应用语言从系统 locale 初始化（英文系统选 `en`，其他选 `zh-CN`），用户可在设置中切换并持久化到独立 `ui-preferences.json`（schema v1、0600）；不绑定 Profile，控制 API 不开放 locale 修改。`desktop/locales.js` 现含 332 个中英文匹配资源键、插值、复数与 `Intl` 日期/数字/列表格式化。静态 DOM 和 renderer 动态文案扩展至浏览器 chrome、标签/菜单、设置、Chrome 导入、Agent 访问管理、扩展空态、内置 Agent 对话与模型管理、Agent 工作区代表性状态；默认 Profile/空间名只在界面显示层翻译。架构见[本地化设计](../architecture/localization.md)。
+- 实现：应用语言从系统 locale 初始化（英文系统选 `en`，其他选 `zh-CN`），用户可在设置中切换并持久化到独立 `ui-preferences.json`（schema v1、0600）；不绑定 Profile，控制 API 不开放 locale 修改。`desktop/locales.js` 提供中英文资源、插值、复数与 `Intl` 日期/数字/列表格式化。静态 DOM 和 renderer 动态文案扩展至浏览器 chrome、标签/菜单、设置、Chrome 导入与引导、Agent 访问管理、扩展空态、内置 Agent 对话与模型管理、Agent 工作区代表性状态；品牌眉题、Chrome Profile 与端点地址字段也由 locale 资源驱动。默认 Profile/空间名只在界面显示层翻译。架构见[本地化设计](../architecture/localization.md)。
 - UI 参照：REA 受控 Chromium 156.0.8078.79 在 Kobra `/components/dropdown-menu` 观察到页面标题、菜单说明和 `Menu size` combobox。Evidence `ev_a9d28bb5e29c9f2ff9465f0f0d3ee1933ba08d6941cc0f38fc7a32ac27a8c48d`，2026-11-03 11:57（Asia/Shanghai），1280×720。**直接观察：**路由可达且 AX 树包含上述标题/说明/combobox。**静态证据：**同次 DOM 标题与 AX 描述标明这是菜单组件示例。**推断：**参考帮助辨别菜单与选择器语义，不构成 Corvid 的语言选择需求。**未知：**场景只等待页面加载，未操作菜单或选择器；焦点、关闭、键盘与窄窗行为未知。Corvid 使用原生 `<select>`，未复制代码或素材。
-- 验证：本轮最后一次 `env -u ELECTRON_RUN_AS_NODE CORVID_CAPTURE_QA_SCREENSHOTS=1 node tests/localization-e2e.cjs` 通过，覆盖源码重复键拒绝、语言即时切换和不支持 locale 拒绝、332 个资源键/复数键/占位符一致、DOM 资源键有效、浏览器菜单与控件、设置内 Chrome 导入/外部 Agent 授权、Profile 扩展空态、Agent 提示/模型设置、Agent 工作区空态、用户数据名称不变、`Intl` 格式、0600 偏好文件、重启恢复及 700×420 窄窗导航。六张隔离空白数据截图已生成：`corvid-localization-en-1024x700.png`、`corvid-localization-zh-CN-1024x700.png`、`corvid-localization-en-700x420.png`、`corvid-localization-zh-CN-700x420.png`、`corvid-localization-en-settings-1024x700.png`、`corvid-localization-zh-CN-settings-1024x700.png`；宽窗与窄窗基础浏览器截图、两种语言设置截图均已目视检查。还通过 `node --check desktop/locales.js`、`desktop/renderer.js`、`desktop/main.cjs`、`tests/localization-e2e.cjs` 和 `git diff --check`。只运行定向真实 Electron 用例，没有运行完整 `npm test`，没有访问外网、OAuth 或模型。
-- 限制与状态：截图展示的是明确夹具状态，不能证明所有译文/视图都无溢出；700×420 断言聚焦浏览器导航可达，不是完整窄屏验收。主进程/依赖生成错误、帮助与罕见状态、全部菜单和键盘焦点流程、VoiceOver 仍需审计。Issue #130 继续开放，D24 保持“部分”，不得宣传全产品已完成双语验收。
+- UI 参照补充：REA 受控 Chromium 156.0.8078.79 在 Kobra `/components/dialog` 执行点击 `Create workspace` 并捕获 DOM/AX/截图，Evidence `ev_0dc1fb51a7e36baea7fd893e92b73ef348cbab8faeaf8762cd69b6605c436b96`，2026-11-03 13:04（Asia/Shanghai），页面默认 1280×720。**直接观察：**该路由可达，AX 树提供 `Dialog` 标题、“A modal window over the page, and the alert dialog.” 说明、`Multi step` 与 `Alert dialog` 复选框；点击步骤完成，但点击后 AX 树仍只列出 `Create workspace` 按钮，没有可确认的对话框状态。**静态证据：**DOM/AX 同时列出 `open`、`modal`、`multiStep`、`alert` 属性说明。**推断：**Corvid 长设置内容应保持可滚动，并让保存/取消动作在滚动后仍完整可达；此结论由 Corvid 自身 E2E 验收，不照搬 Kobra 样式。**未知：**未能确认 Kobra 点击是否显示弹窗；焦点、Escape、窄窗行为未知，不能把未出现在 AX 树里解释为没有弹窗。未复制代码或素材。
+- 验证：本轮 `env -u ELECTRON_RUN_AS_NODE CORVID_CAPTURE_QA_SCREENSHOTS=1 node tests/localization-e2e.cjs` 通过，覆盖源码重复键拒绝、语言即时切换和不支持 locale 拒绝、两份资源键/复数键/占位符一致、DOM 资源键有效、品牌眉题与浏览器控件、Chrome Profile 名称、设置内 Chrome 导入/外部 Agent 授权、Profile 扩展空态、Agent 提示/模型设置（含端点地址字段）、Agent 工作区空态、用户数据名称不变、`Intl` 格式、0600 偏好文件、重启恢复、700×420 窄窗导航，以及中英文设置对话框滚动后保存按钮完整可达。八张隔离空白数据截图已生成：`corvid-localization-en-1024x700.png`、`corvid-localization-zh-CN-1024x700.png`、`corvid-localization-en-700x420.png`、`corvid-localization-zh-CN-700x420.png`、`corvid-localization-en-settings-1024x700.png`、`corvid-localization-zh-CN-settings-1024x700.png`、`corvid-localization-en-settings-700x420.png`、`corvid-localization-zh-CN-settings-700x420.png`。已目视确认两张新窄窗截图中的保存/取消按钮完整落在对话框内；截图处于内容滚动到底部后的状态，不展示设置表单全貌。`node --check desktop/locales.js`、`desktop/renderer.js`、`desktop/main.cjs`、`tests/localization-e2e.cjs` 和 `git diff --check` 通过。只运行定向真实 Electron 用例，没有运行完整 `npm test`，没有访问模型或 OAuth。
+- 限制与状态：截图展示的是明确夹具状态，不能证明所有译文/视图都无溢出；700×420 断言证明设置对话框留在视口内、内容可滚动及保存按钮完整可达，不代表完整窄屏可用性。主进程/依赖生成错误、帮助与罕见状态、全部菜单和键盘焦点流程、VoiceOver 仍需审计。Issue #130 继续开放，D24 保持“部分”，不得宣传全产品已完成双语验收。
+
 ## 2026-11-03 下载失败与中断后的安全重试（Issue #126）
 
 - 基线与环境：基于 `ff9d046` 的隔离 worktree；macOS、Node.js v24.14.1、Electron 45.2.1。E2E 使用临时 `CORVID_DATA_DIR`、临时下载目录及本地 HTTP fixture。
